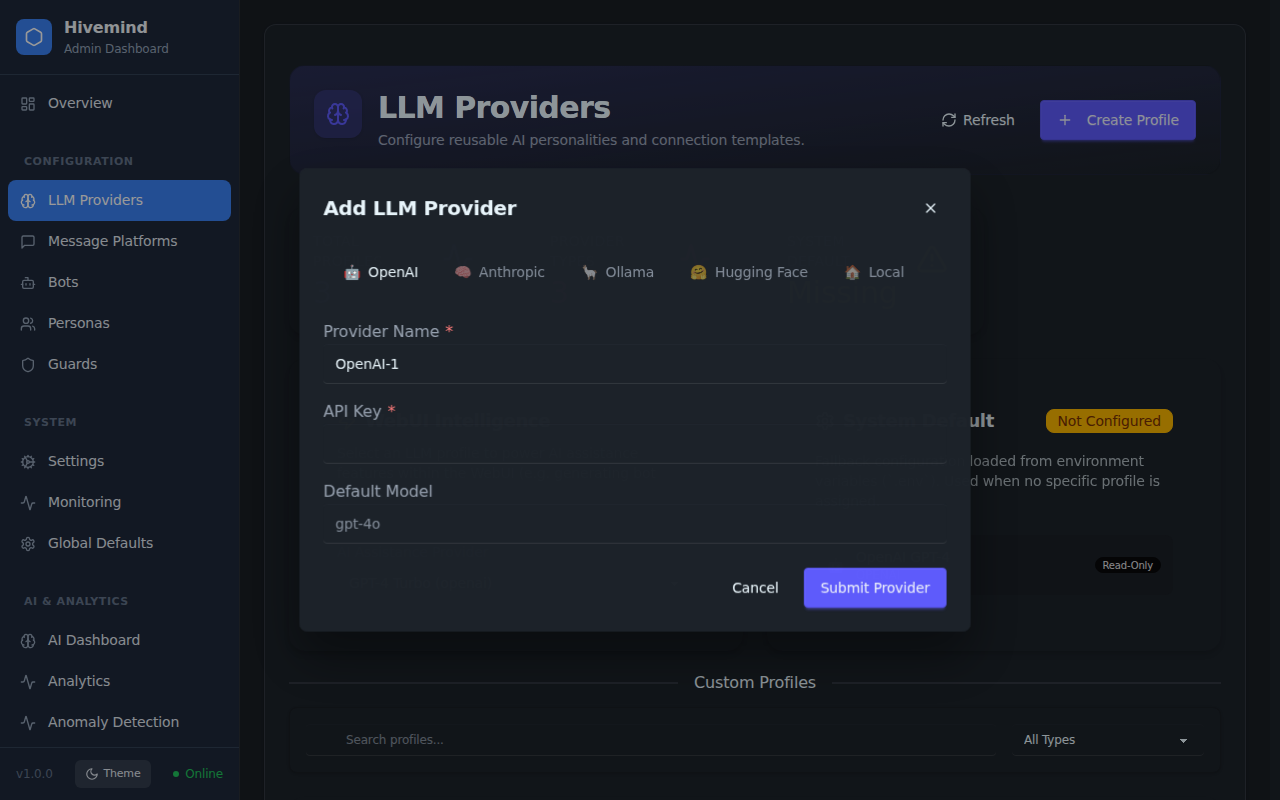
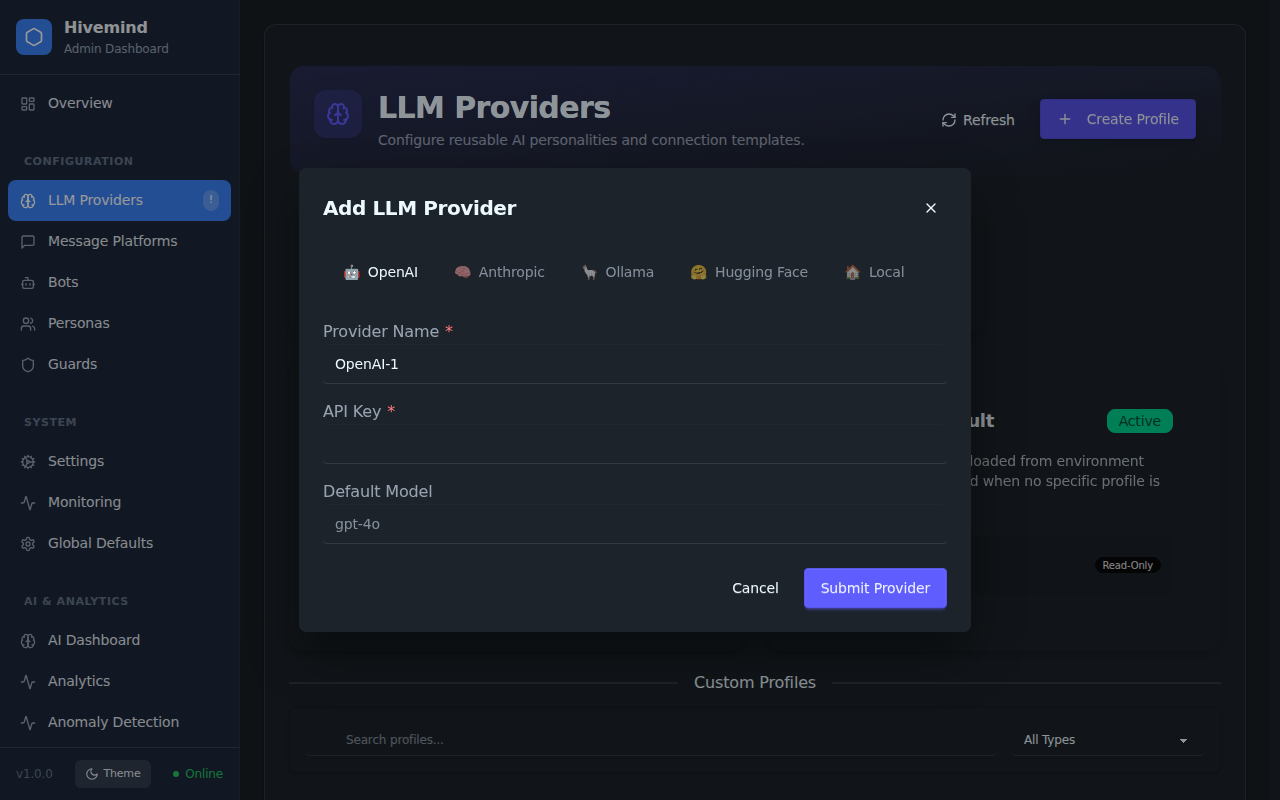
Merge PR #556: Fix LLM Providers Page Stats and Restore Missing Backend API

diff --git a/tests/api/llm-status-endpoint.test.ts b/tests/api/llm-status-endpoint.test.ts
@@ -1,0 +1,95 @@
+import express from 'express';
+import request from 'supertest';
+import { getLlmDefaultStatus } from '../../src/config/llmDefaultStatus';
+import configRouter from '../../src/server/routes/config';
+
+// Define mocks
+jest.mock('../../src/config/llmDefaultStatus', () => ({
+  getLlmDefaultStatus: jest.fn(),
+}));
+
+jest.mock('../../src/config/llmProfiles', () => ({
+  getLlmProfiles: jest.fn(),
+  saveLlmProfiles: jest.fn(),
+}));
+
+jest.mock('../../src/config/BotConfigurationManager', () => ({
+  BotConfigurationManager: {
+    getInstance: () => ({
+      getAllBots: jest.fn().mockReturnValue([]),
+      getWarnings: jest.fn().mockReturnValue([]),
+      isLegacyMode: jest.fn().mockReturnValue(false),
+    }),
+  },
+}));
+
+jest.mock('../../src/managers/BotManager', () => ({
+  BotManager: {
+    getInstance: () => ({
+      getAllBots: jest.fn().mockResolvedValue([]),
+    }),
+  },
+}));
+
+jest.mock('../../src/server/middleware/audit', () => ({
+  auditMiddleware: (req: any, res: any, next: any) => next(),
+  logConfigChange: jest.fn(),
+}));
+
+jest.mock('../../src/types/errors', () => {
+  const original = jest.requireActual('../../src/types/errors');
+  return {
+    ...original,
+    ErrorUtils: {
+      ...original.ErrorUtils,
+      toHivemindError: jest.fn((e) => ({
+        message: e.message || 'Unknown Error',
+        statusCode: 500,
+      })),
+    },
+  };
+});
+
+const mockGetLlmDefaultStatus = getLlmDefaultStatus as jest.Mock;
+
+describe('LLM Status API Endpoint', () => {
+  let app: express.Application;
+
+  beforeEach(() => {
+    jest.clearAllMocks();
+    app = express();
+    app.use(express.json());
+    app.use('/api/config', configRouter);
+  });
+
+  describe('GET /api/config/llm-status', () => {
+    it('should return LLM status', async () => {
+      const mockStatus = {
+        configured: true,
+        providers: [
+          { id: 'openai', name: 'OpenAI', type: 'openai' }
+        ],
+        libraryStatus: {}
+      };
+      mockGetLlmDefaultStatus.mockReturnValue(mockStatus);
+
+      const response = await request(app)
+        .get('/api/config/llm-status')
+        .expect(200);
+
+      expect(response.body).toEqual(mockStatus);
+    });
+
+    it('should handle errors', async () => {
+      mockGetLlmDefaultStatus.mockImplementation(() => {
+        throw new Error('Test Error');
+      });
+
+      const response = await request(app)
+        .get('/api/config/llm-status')
+        .expect(500);
+
+      expect(response.body.error).toBe('Test Error');
+    });
+  });
+});

diff --git a/src/client/src/pages/LLMProvidersPage.tsx b/src/client/src/pages/LLMProvidersPage.tsx
@@ -271,7 +271,7 @@ const LLMProvidersPage: React.FC = () => {
                     Fallback configuration loaded from environment variables (`.env`). Used when no specific profile is assigned.
                 </p>
 
-                {defaultStatus?.defaultProviders?.map((p: any) => (
+                {defaultStatus?.providers?.map((p: any) => (
                     <div key={p.id} className="flex items-center justify-between p-3 bg-base-200/50 rounded-lg mb-2">
                         <div className="flex items-center gap-3">
                             {getProviderIcon(p.type)}
@@ -284,7 +284,7 @@ const LLMProvidersPage: React.FC = () => {
                     </div>
                 ))}
 
-                {(!defaultStatus?.defaultProviders || defaultStatus.defaultProviders.length === 0) && (
+                {(!defaultStatus?.providers || defaultStatus.providers.length === 0) && (
                     <div className="alert alert-warning text-xs p-2">
                         <WarningIcon className="w-4 h-4" />
                         <span>No default provider in .env. Bots without a profile will fail.</span>

diff --git a/src/client/src/components/DaisyUI/StatsCards.tsx b/src/client/src/components/DaisyUI/StatsCards.tsx
@@ -58,10 +58,16 @@ const StatsCards: React.FC<StatsCardsProps> = ({ stats, isLoading = false, class
 
   // Animate numbers when they change
   useEffect(() => {
+    const timers: ReturnType<typeof setInterval>[] = [];
+
     stats.forEach(stat => {
       if (typeof stat.value === 'number') {
         const startValue = animatedValues[stat.id] || 0;
         const endValue = stat.value;
+
+        // Optimization: Don't animate if value hasn't changed
+        if (startValue === endValue) return;
+
         const duration = 1000;
         const steps = 60;
         const increment = (endValue - startValue) / steps;
@@ -81,9 +87,13 @@ const StatsCards: React.FC<StatsCardsProps> = ({ stats, isLoading = false, class
           }
         }, duration / steps);
 
-        return () => clearInterval(timer);
+        timers.push(timer);
       }
     });
+
+    return () => {
+      timers.forEach(timer => clearInterval(timer));
+    };
   }, [stats]);
 
   const getGradientBg = (color?: string) => {

diff --git a/src/server/routes/config.ts b/src/server/routes/config.ts
@@ -314,6 +314,20 @@ router.get('/sources', async (req, res) => {
   }
 });
 
+// GET /api/config/llm-status - Get LLM configuration status
+router.get('/llm-status', (req, res) => {
+  try {
+    const status = getLlmDefaultStatus();
+    return res.json(status);
+  } catch (error: unknown) {
+    const hivemindError = ErrorUtils.toHivemindError(error) as any;
+    return res.status(hivemindError.statusCode || 500).json({
+      error: hivemindError.message,
+      code: 'LLM_STATUS_GET_ERROR',
+    });
+  }
+});
+
 // GET /api/config/llm-profiles - List all LLM profiles
 router.get('/llm-profiles', (req, res) => {
   try {

diff --git a/tests/e2e/screenshot-llm.spec.ts b/tests/e2e/screenshot-llm.spec.ts
@@ -19,10 +19,11 @@ test.describe('LLM Providers Screenshots', () => {
       route.fulfill({
         status: 200,
         json: {
-          defaultConfigured: true,
-          defaultProviders: [{ id: 'openai-default', name: 'OpenAI GPT-4', type: 'openai' }],
+          configured: true,
+          providers: [{ id: 'openai-default', name: 'OpenAI GPT-4', type: 'openai' }],
           botsMissingLlmProvider: [],
           hasMissing: false,
+          libraryStatus: {},
         },
       })
     );

diff --git a/src/client/src/services/api.ts b/src/client/src/services/api.ts
@@ -7,7 +7,10 @@ const getEnv = (key: string): string | undefined => {
     return env[key];
   } catch (e) {
     // Fallback to process.env for Node/Jest
-    return (process.env as any)[key];
+    if (typeof process !== 'undefined') {
+      return (process.env as any)[key];
+    }
+    return undefined;
   }
 };
 

diff --git a/USERGUIDE.md b/USERGUIDE.md
@@ -23,6 +23,7 @@ A comprehensive view of all message processing events and system actions.
 
 ### [LLM Providers](/admin/providers/llm)
 Manage connections to Large Language Model providers.
+*   **Dashboard Stats**: View total profiles, provider types, and system default status at a glance.
 *   **Add Profile**: Configure reusable connection templates for services like OpenAI, Anthropic, Google Gemini, or local models (via Ollama/vLLM).
 *   **System Default**: Define the fallback provider for bots without a specific profile.
 *   **WebUI Intelligence**: Select a provider to power internal AI features.
